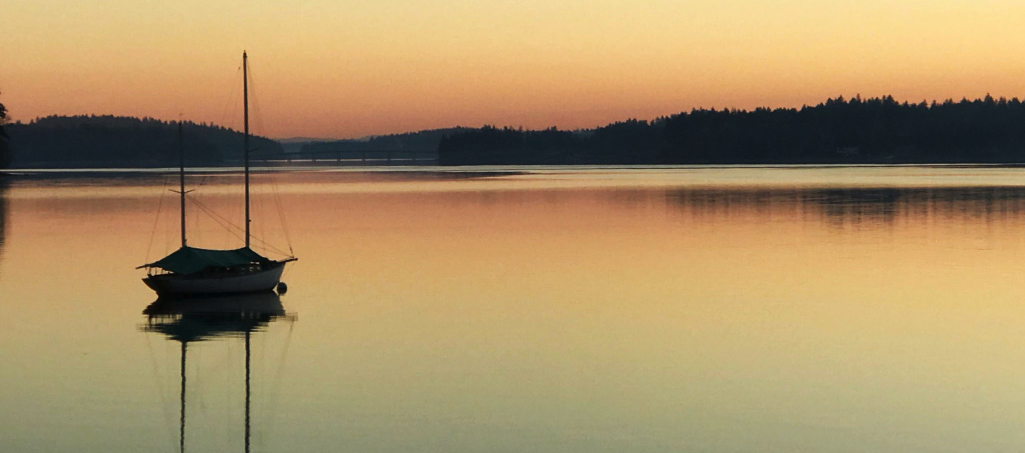
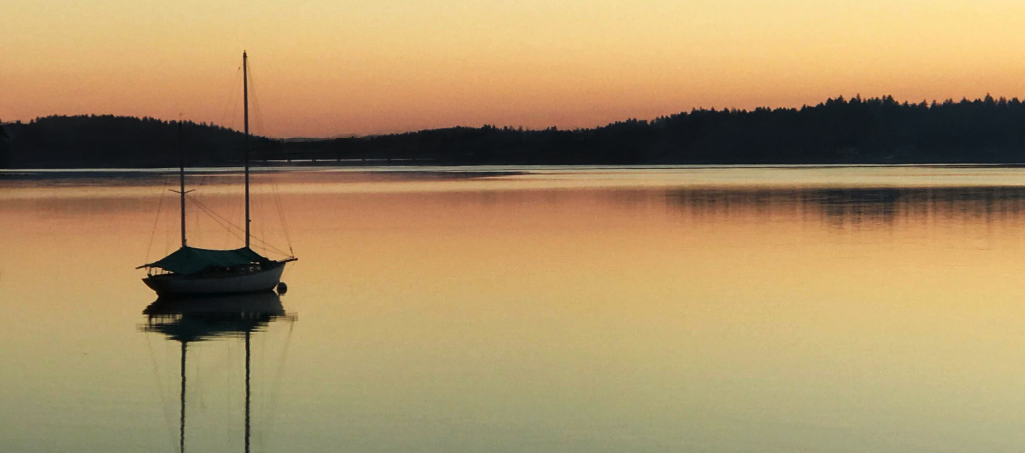
clean photos

diff --git a/src/components/Carousel.js b/src/components/Carousel.js
@@ -62,7 +62,7 @@ const Carousel = () => {
             <MDBView>
               <img
                 className='d-block w-100'
-                src='../../images/whale.png'
+                src='../../images/hvnSJi8k_4x.jpg'
                 alt='Fourth slide'
               />
             </MDBView>
